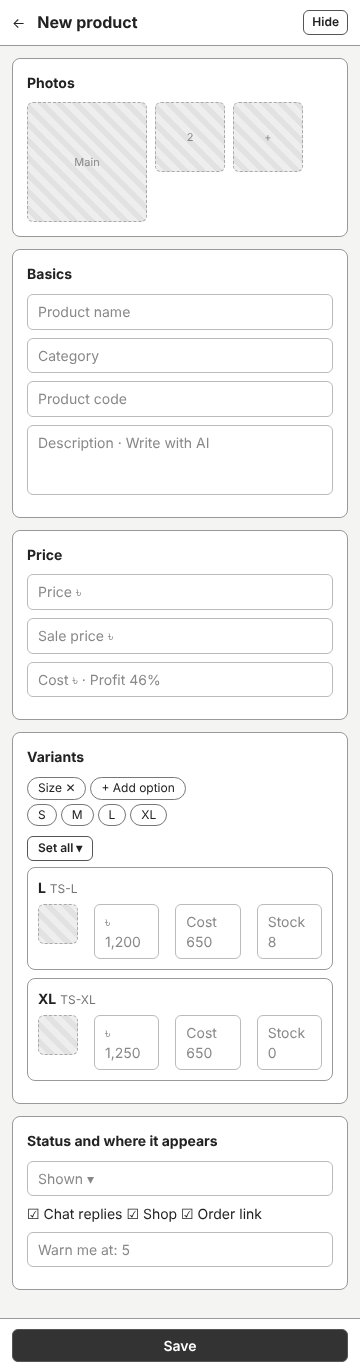
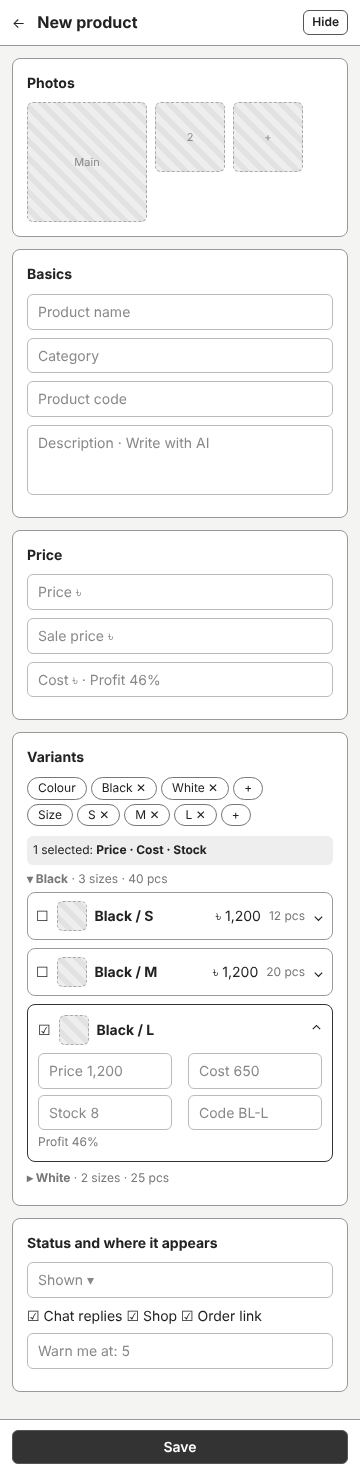
docs(products): add variant UX research and grouped variants grid to PROD-11 plan

diff --git a/docs/design/wireframes/prod-11/research.md b/docs/design/wireframes/prod-11/research.md
@@ -1,0 +1,29 @@
+# Product form research (PROD-11)
+
+Checked on 22 Nov 2026 from vendor docs and public help pages. Kirki eCommerce has no public variant documentation (its WordPress.org page lists shop and product pages only), so it is left out of the table. Marketplace tools such as Daraz showed no public variant screens either.
+
+## What others do
+
+| Tool                                                                                       | Good                                                                                                                                             | Weak                                                                                                                                                                                            |
+| ------------------------------------------------------------------------------------------ | ------------------------------------------------------------------------------------------------------------------------------------------------ | ----------------------------------------------------------------------------------------------------------------------------------------------------------------------------------------------- |
+| [Shopify](https://help.shopify.com/manual/products/variants/edit-variants)                 | Variants are edited on the product page, grouped by the first option, with checkboxes and a bulk edit for the chosen rows. Up to 2,048 variants. | Stock for a product with variants is edited somewhere else. The bulk editor cannot add variants. Variant order is by drag only.                                                                 |
+| [WooCommerce](https://woocommerce.com/feature-request/variable-product-backend-ux)         | Generates every combination from attributes.                                                                                                     | Add attributes, save, switch tab, generate, then open each variation one by one. Three colours and four sizes is twelve forms. A combination that was never generated has no row to edit later. |
+| [FluentCart](https://docs.fluentcart.com/guide/product-types-creation/advanced-variations) | Option rows (name and values) generate all combinations on save, with a plain table mode for simple cases.                                       | Switching between the two modes deletes existing variations and cannot be undone.                                                                                                               |
+| [Square](https://square.com/help/us/en/article/6689)                                       | Reusable option sets (Size, Colour) generate variations in one step. Each variation has its own price, cost and code.                            | Editing an item that already has several variations is web only, not in the phone app.                                                                                                          |
+| Lazada and Daraz                                                                           | Add variation, then fill price, code and stock per row.                                                                                          | No public screens to compare.                                                                                                                                                                   |
+
+## What Dakly keeps and adds
+
+Keep: up to three options, renaming an option keeps variant ids, prices, codes and stock; blank price uses the product price; a photo for each variant; stock changes go through the stock history with a reason; Hide and Show; Write with AI.
+
+Add:
+
+1. One screen, no save-and-switch step. Typing option values builds the grid at once.
+2. Reusable value suggestions (S, M, L, XL, XXL; common colours) so a seller taps instead of types.
+3. Rows are grouped by the first option and can be collapsed, so 3 colours by 5 sizes is three groups, not fifteen loose rows.
+4. Row checkboxes and one bulk bar: set price, cost or stock for the chosen rows. Spreadsheet paste into the grid.
+5. A removed combination can be added back with **Add missing combinations**, which WooCommerce lacks.
+6. Stock for every variant is edited in the grid, with the ledger reason asked once for the whole save. Shopify splits this out.
+7. A phone layout that shows each variant as one line (name, price, stock) and opens the row to edit, not five inputs per card. The bulk bar works on a phone too.
+8. Profit percent per row and a readiness line (photo, price, description) because the AI needs them.
+9. Adding options to a product that already has stock never deletes anything. Existing stock goes to the first value of the new option, and the seller is told.

diff --git a/docs/features/05-products-and-stock.md b/docs/features/05-products-and-stock.md
@@ -129,10 +129,11 @@ Decision: [0012](../adr/0012-full-page-product-form.md). Wireframes: `docs/desig
 - **Full page** at `/products/new` and `/products/[productId]`. The top bar stays in view: back, title, Save, Hide product. Desktop has two columns, a phone has one.
   - Left: Photos (up to 10, first one is the main photo, move earlier), Basics (name, category, description with Write with AI), Price (price, sale price, cost, live profit percent), Variants.
   - Right: Status (shown or hidden), Where it appears (Chat replies, Shop sales, Order link), Stock settings (warn me at), a preview card. The Stock history tab sits on the same page.
-- **Variants grid**: add Size or Colour as chips (up to three option types, as today). The grid has one row per value or combination with image, price, cost, stock and product code, edited in place. **Set all** fills one column. A blank price uses the product price. Renaming an option keeps the variant ids, prices, codes and stock, as the current editor does.
+- **Variants grid** (research: `docs/design/wireframes/prod-11/research.md`): up to three options, typed as values or picked from suggestions (S, M, L, XL, XXL, common colours). The grid is built as values are added, with no save step in between. Rows are grouped by the first option and can be collapsed. Each row has a checkbox, image, price, cost, profit percent, stock and product code, edited in place. The bulk bar sets price, cost or stock for the chosen rows, and a paste from a spreadsheet fills the grid. A blank price uses the product price. A removed combination returns with **Add missing combinations**. Renaming an option keeps the variant ids, prices, codes and stock. Adding an option to a product that has stock moves the existing stock to the first value of the new option and says so. Stock edits in the grid are written to the stock history with one reason asked on save.
 - Plain validation messages on every field; a typed cost is kept when options change.
 - Leaving with unsaved changes asks first. Restock and Change stock stay dialogs.
-- On a phone the grid shows one row as a card with the same five fields, and the Save bar sticks to the bottom.
+- On a phone each variant is one line (name, price, stock) that opens to edit its fields, the bulk bar stays, and the Save bar sticks to the bottom.
+- A readiness line shows what the AI still lacks (photo, price, description).
 
 ### Missing design: import products
 

diff --git a/docs/adr/0012-full-page-product-form.md b/docs/adr/0012-full-page-product-form.md
@@ -14,7 +14,7 @@ The screenshots in `docs/design/` are layout references from a prototype. Leavin
 Two tiers:
 
 - Quick add stays a modal with name, price, stock and one photo, plus a **More details** link that opens the full page with those values filled in. It is for adding a product in about 20 seconds.
-- The full page lives at `/products/new` and `/products/[productId]`. It has a top bar that stays in view (back, title, Save, Hide), two columns on desktop and one on a phone, and a variants grid with one row per size or colour combination. Rows are edited in place, with a bulk **Set all** action.
+- The full page lives at `/products/new` and `/products/[productId]`. It has a top bar that stays in view (back, title, Save, Hide), two columns on desktop and one on a phone, and a variants grid with one row per size or colour combination. Rows are grouped by the first option, edited in place, and changed in bulk through row checkboxes. The research is in `docs/design/wireframes/prod-11/research.md`: Shopify groups and bulk edits but splits stock out, WooCommerce needs a save and a tab switch and loses ungenerated combinations, and FluentCart deletes variations when its mode is switched. Dakly keeps one screen, never deletes on a change, and edits stock in the same grid.
 
 Restock and Change stock stay dialogs, because they are quick actions. The product drawer and the add modal's long form are removed once the page ships.
 
